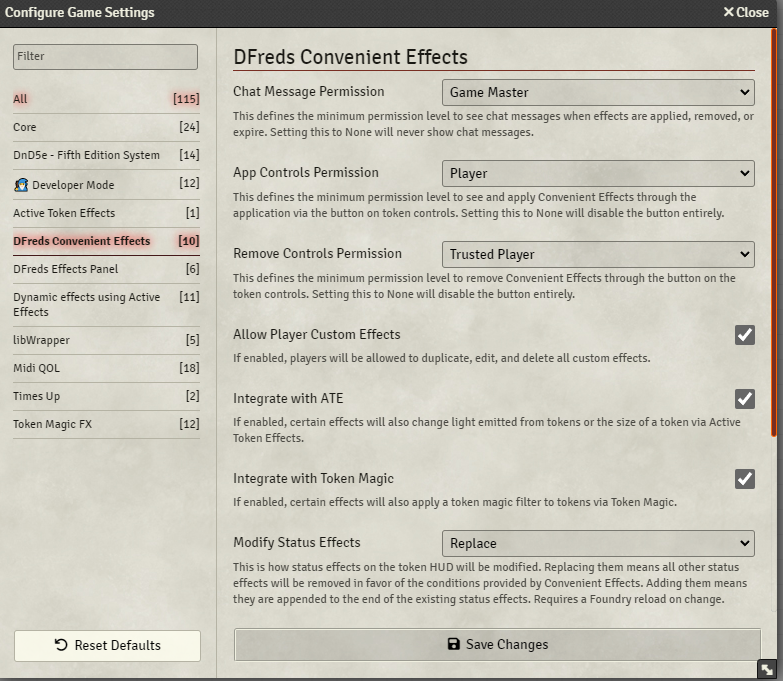
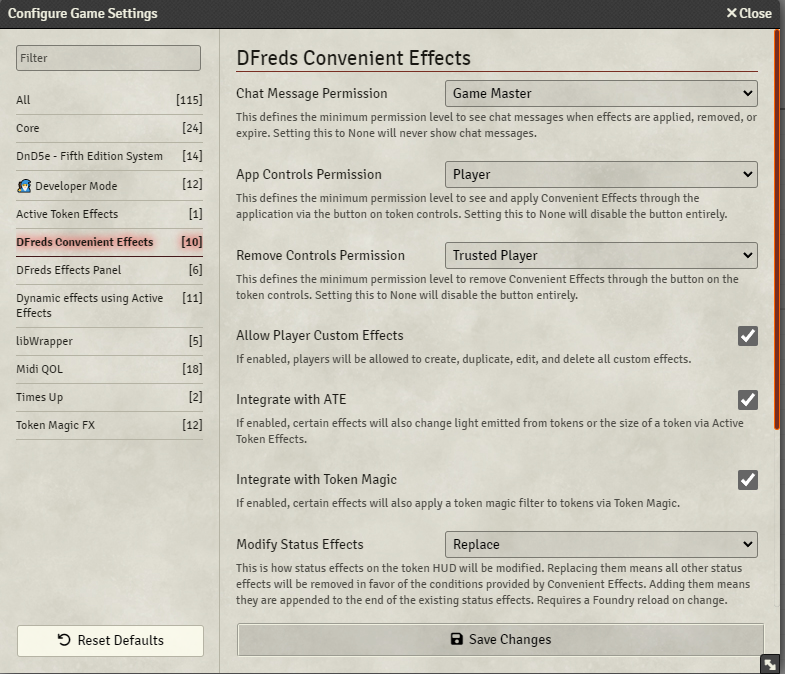
Minor update to setting description

diff --git a/scripts/settings.js b/scripts/settings.js
@@ -81,7 +81,7 @@ export default class Settings {
       Settings.ALLOW_PLAYER_CUSTOM_EFFECTS,
       {
         name: 'Allow Player Custom Effects',
-        hint: 'If enabled, players will be allowed to duplicate, edit, and delete all custom effects.',
+        hint: 'If enabled, players will be allowed to create, duplicate, edit, and delete all custom effects.',
         scope: 'world',
         config: true,
         default: false,
